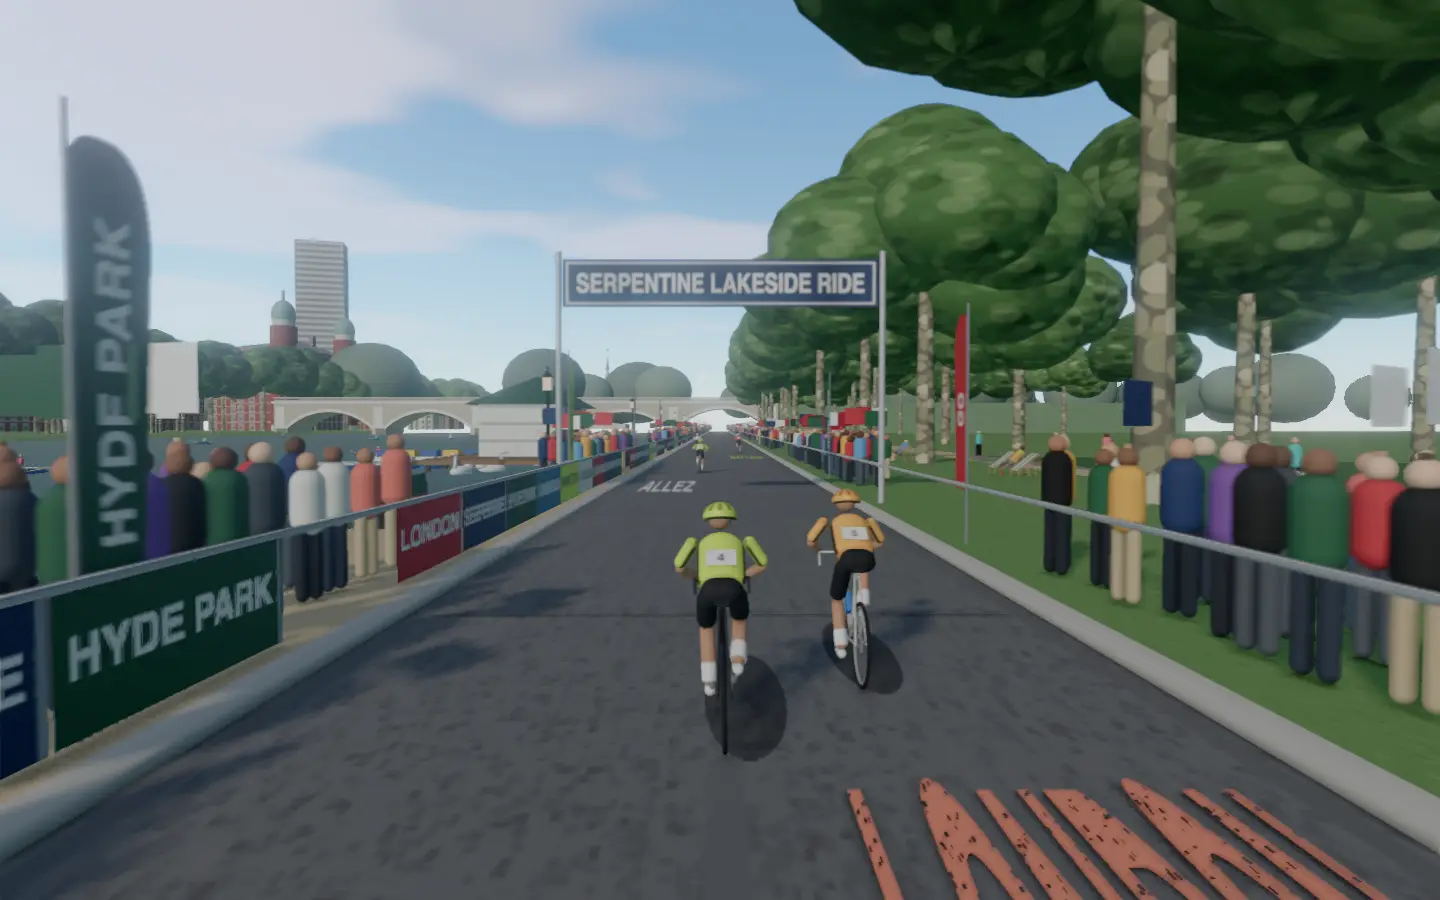
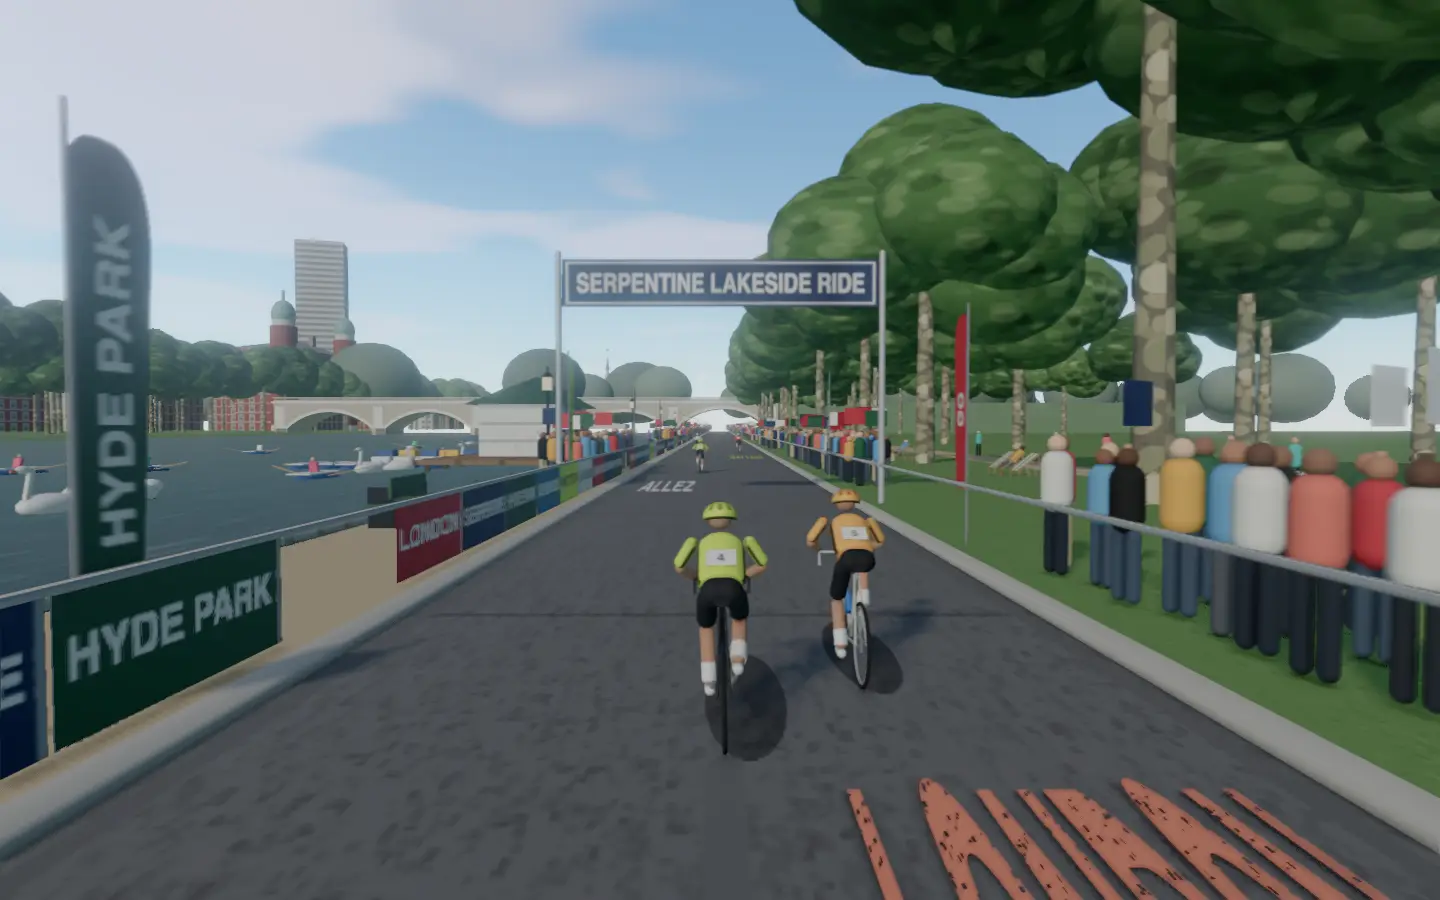
Open the Serpentine to view: boats and swans out on the water past the boathouse

diff --git a/frontend/projects/wattzup/src/app/core/world-serpentine.ts b/frontend/projects/wattzup/src/app/core/world-serpentine.ts
@@ -187,6 +187,8 @@ export class SerpentineStreet implements SceneStreet {
       skip: (side, offset, x) =>
         (side < 0 && Math.abs(offset - BOATHOUSE) < 12) ||
         offset % 40 > 26 ||
+        // Thinner on the lake side, so the water shows between the knots.
+        (side < 0 && offset % 40 > 15) ||
         (x > CROWD_NEAR + 1.2 && offset % 12 > 7),
     });
   }
@@ -659,8 +661,12 @@ export class SerpentineStreet implements SceneStreet {
       this.boats.push({
         mesh: boat,
         oars,
-        offset: k % 2 ? 120 + random() * 220 : random() * LOOP,
-        x: -EDGE - 14 - random() * (FAR_BANK - EDGE - 30),
+        // Half of them out on the water in the stretch the rider first sees.
+        offset: k < BOATS / 2 ? 128 + k * 16 + random() * 6 : random() * LOOP,
+        x:
+          k < BOATS / 2
+            ? -EDGE - 13 - random() * 24
+            : -EDGE - 14 - random() * (FAR_BANK - EDGE - 30),
         phase: random() * 6,
         speed: (boat.rotation.y === 0 ? 1 : -1) * (0.5 + random() * 0.5),
       });
@@ -696,13 +702,13 @@ export class SerpentineStreet implements SceneStreet {
       knob.position.set(0, 0.77, -0.52);
       swan.add(body, tail, neck, head, bill, knob);
       for (const m of swan.children) m.castShadow = true;
-      swan.scale.setScalar(1.5);
+      swan.scale.setScalar(1.8);
       this.group.add(swan);
       const flock = Math.floor(k / 3);
       this.swans.push({
         mesh: swan,
-        offset: (flock < 3 ? 110 + flock * 30 : flock * 85) + random() * 6,
-        x: -EDGE - 2 - random() * (flock < 3 ? 8 : 40),
+        offset: (flock < 3 ? 118 + flock * 24 : flock * 85) + random() * 6,
+        x: -EDGE - (flock < 3 ? 7 + random() * 10 : 2 + random() * 40),
         phase: random() * 6,
         speed: 0,
       });

diff --git a/docs/class-worlds.md b/docs/class-worlds.md
@@ -28,7 +28,7 @@ Every class in `frontend/public/classes.json`, with its World Ride scene. Render
 | 22 | 15 Minute Beginner Session | Stanley Park Seawall | 81% | The seawall path curls around Vancouver's Stanley Park between the cedars and the sea, past the totem poles at Brockton Point and sailboats on English Bay toward the green towers of the Lions Gate Bridge under the North Shore mountains. The easy warm-up rolls past the totem poles, the one- and two-minute pushes follow the seawall's curve under the cedars, and the single thirty-second sprint races toward the bridge. |
 | 23 | 15 Minute Cardio Workout at Home | Suburban Sunrise | 70% | Quiet tree-lined streets at dawn; sprinklers ticking, papers landing, neighbours waving from porches. |
 | 24 | 15 Min HIIT Cardio: Belly Fat Loss | Bondi to Bronte (concept) |  | Sydney's clifftop coast path; surf breaking below and an ocean pool at every headland. |
-| 25 | 15 Minute HIIT Cardio | Serpentine, Hyde Park | 70% | Rowing boats and white swans glide on the Serpentine as the lakeside road runs west through Hyde Park past the boathouse and the striped deckchairs under the plane trees toward the five stone arches of the Serpentine Bridge. The two-minute warm-up rolls past the boathouse, the three-minute tempo blocks sweep along the lake under the planes, and each thirty-second sprint races for the bridge's arches. |
+| 25 | 15 Minute HIIT Cardio | Serpentine, Hyde Park | 73% | Rowing boats and white swans glide on the Serpentine as the lakeside road runs west through Hyde Park past the boathouse and the striped deckchairs under the plane trees toward the five stone arches of the Serpentine Bridge. The two-minute warm-up rolls past the boathouse, the three-minute tempo blocks sweep along the lake under the planes, and each thirty-second sprint races for the bridge's arches. |
 | 26 | Quick HIIT Workout | Notting Hill Carnival | 72% | Sound systems throbbing on Ladbroke Grove; push through costumed mas bands on carnival Monday. |
 | 27 | Instant Inferno | Kīlauea Lava Road (concept) |  | Hawaiian lava fields and glowing steam vents; each effort climbs toward the crater rim. |
 | 28 | Easy Riding | Napa Vineyards (concept) |  | Rolling vine rows and oak-shaded wineries on a warm Californian afternoon. |

diff --git a/docs/detailed-designs/world-ride/draw-class-scene/README.md b/docs/detailed-designs/world-ride/draw-class-scene/README.md
@@ -285,7 +285,7 @@ None.
   - on the left a buff gravel footpath with black cast-iron lamp posts every 30 m and a green park bench between each pair facing the water, the lake's stone edge, and the lake 0.6 m below the road out to its far bank 130 m off, where more plane trees stand; `sink` drops the ground below the water;
   - once a lap, 150 m into the loop and so in the opening view, the boathouse on its timber jetty: a white weatherboarded hut under a green hipped roof, a BOATS FOR HIRE sign over the footpath, blue rowing boats and yellow and blue pedalos moored beside it;
   - on the right the lawns under London plane trees in loose rows, their bark mottled cream, olive and grey and their crowns broad and rounded, green-and-white striped deckchairs in twos and threes facing the lake with someone in nearly half of them, and a gravel path 16 m off where joggers and walkers go both ways (the kit's `Figures`);
-  - the shared crowd in knots along the barriers, rowing boats pulled along the lake with their oars sweeping, and mute swans drifting near the bank;
+  - the shared crowd in knots along the barriers, thinner on the lake side so the water shows between them, rowing boats pulled along the lake with their oars sweeping, half of them out on the water in the stretch the rider first sees, and mute swans drifting off the bank there in small groups;
   - 240 m ahead the Serpentine Bridge across the lake, the road passing under the last of its five shallow arches: Portland stone with a proud ring of voussoirs to each arch, pilasters up the piers, cutwaters, a cornice and a balustrade, and a grassed embankment carrying the road on to it; beyond it Kensington Gardens' trees, the Albert Memorial's gilded Gothic spire rising over them, and to the left Knightsbridge over the far bank's trees: mansion blocks in red brick and Portland stone, six to nine storeys under slate mansards with chimney stacks, the turreted red-brick hotel by the park with its green copper cupolas, and the barracks tower, all hazed by hand. Trees, deckchairs and banners on the lawns are hidden past the bridge so none stands in front of its arches.
 
   `lay`, `place` and `setTime` recycle it along a 500 m loop.
